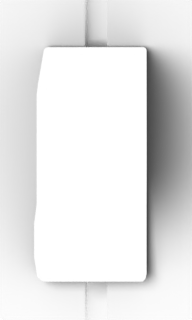
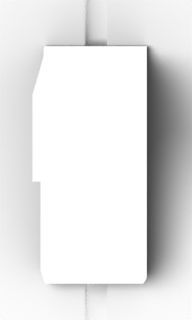
fix(panel): drawbar cap shape from the owner's loose-cap photo

diff --git a/assets/blender/parts_cap.py b/assets/blender/parts_cap.py
@@ -10,23 +10,19 @@ from __future__ import annotations
 import bpy
 from proof_geom import box, loft
 
-# Shape EMPIRICAL from photos of the real parts (owner, 2026-11-13): the drawbar cap is one
-# part: a tall rear block whose sides and front slope inward, and a long lower nose with a
-# chamfered front, narrower and offset left (reference). Plan size EMPIRICAL from the
-# reference (100 x 231 px = 0.78 x 1.79 u at the base). Black and white caps share this geometry.
+# Shape EMPIRICAL from the owner's photo of a loose cap (2026-11-13): one part, a tall
+# near-square rear block with upright walls, an upright front face filleted into a long
+# full-width nose about half its height, the nose front chamfered down, and a thin lip
+# along the base behind the block. Plan size EMPIRICAL from the reference (100 x 231 px =
+# 0.78 x 1.79 u at the base). Black and white caps share this geometry.
 CAP_W = 0.80
 CAP_BACK, CAP_FRONT = 0.90, -0.89
-CAP_HT, CAP_HN = 0.90, 0.42  # EMPIRICAL: owner photo of the panel, block about as tall as
-# the cap is wide, nose about half of that
-BLOCK_FRONT = -0.32  # EMPIRICAL (close-up photo): the block front slopes forward onto the nose
-BLOCK_TOP_FRONT = 0.02  # top edge of that face
-NOSE_TOP_FRONT = -0.58  # front edge of the short nose top, then the sloped nose front
-# EMPIRICAL (reference, every drawbar): the nose top face spans this, left of centre; its
-# right wall slopes down to the full-width base
-NOSE_TOP_X = (-0.43, 0.12)
-NOSE_LEFT = -0.45  # EMPIRICAL: the nose base sticks out left of the block (silhouette fit)
-NOSE_FRONT_H = 0.12  # EMPIRICAL (photos): the nose front slopes down low toward the player
-CAP_TAPER = 0.12  # EMPIRICAL: block top is about 0.88 of its base width (photo, front view)
+CAP_HT, CAP_HN = 0.90, 0.42  # EMPIRICAL (photos): nose about 0.47 of the block height
+BLOCK_FRONT = 0.20  # EMPIRICAL (loose-cap photo): block is about 0.4 of the cap length
+NOSE_TOP_FRONT = -0.66  # EMPIRICAL: flat nose top ends here, then the chamfer
+NOSE_FRONT_H = 0.14  # EMPIRICAL: upright foot left under the chamfer
+LIP_L, LIP_H = 0.06, 0.10  # EMPIRICAL (loose-cap photo): base lip behind the block
+CAP_TAPER = 0.05  # EMPIRICAL: walls nearly upright (draft only)
 CAP_BEVEL = 0.12  # EMPIRICAL: reference cap corners read about 8 px rounded at 2x
 CAP_LIFT = 0.03  # cap floats above the plate so the slot shows under it
 FOOT_WALL = 0.06  # ASSUMED: upright strip at the foot of every wall
@@ -55,22 +51,20 @@ def _section(y, z, top_x, left=-CAP_W / 2):
 
 
 def fader_cap(m, key):
-    """Drawbar cap, one loft from back to front over a full-width base: tall rear block with
-    tapered sides and a sloped front, then the lower nose (about half the height) whose top
-    face sits left because its right wall slopes, ending in a chamfer (reference, photos)."""
-    ht, hn = CAP_HT, CAP_HN
-    blk = (-CAP_W / 2 * (1 - CAP_TAPER), CAP_W / 2 * (1 - CAP_TAPER))
-    side = CAP_W / 2 * (1 - CAP_TAPER * NOSE_FRONT_H / CAP_HT)  # same wall slope as the block
-    base = (-side, side)
+    """Drawbar cap, one loft from back to front: base lip, tall upright rear block, step
+    down onto the full-width nose (the bevel makes the fillet), chamfered nose front."""
+    ht, hn, e = CAP_HT, CAP_HN, 0.005
+    top = (-CAP_W / 2 * (1 - CAP_TAPER), CAP_W / 2 * (1 - CAP_TAPER))
     secs = [
-        (CAP_BACK, ht * 0.86, blk),
-        (CAP_BACK - 0.08, ht, blk),
-        (BLOCK_TOP_FRONT, ht, blk),
-        (BLOCK_FRONT, hn, NOSE_TOP_X, NOSE_LEFT),
-        (NOSE_TOP_FRONT, hn, NOSE_TOP_X, NOSE_LEFT),
-        (CAP_FRONT, NOSE_FRONT_H, base, NOSE_LEFT),  # chamfered front, no separate band
+        (CAP_BACK, LIP_H, top),
+        (CAP_BACK - LIP_L, LIP_H, top),
+        (CAP_BACK - LIP_L - e, ht, top),
+        (BLOCK_FRONT, ht, top),
+        (BLOCK_FRONT - e, hn, top),
+        (NOSE_TOP_FRONT, hn, top),
+        (CAP_FRONT, NOSE_FRONT_H, top),
     ]
-    rings = [_section(y, z, tx, *lx) for y, z, tx, *lx in secs]
+    rings = [_section(y, z, tx) for y, z, tx in secs]
     return [loft("cap_body", rings, m[key], smooth=False, bevel=CAP_BEVEL, segments=8)]
 
 
